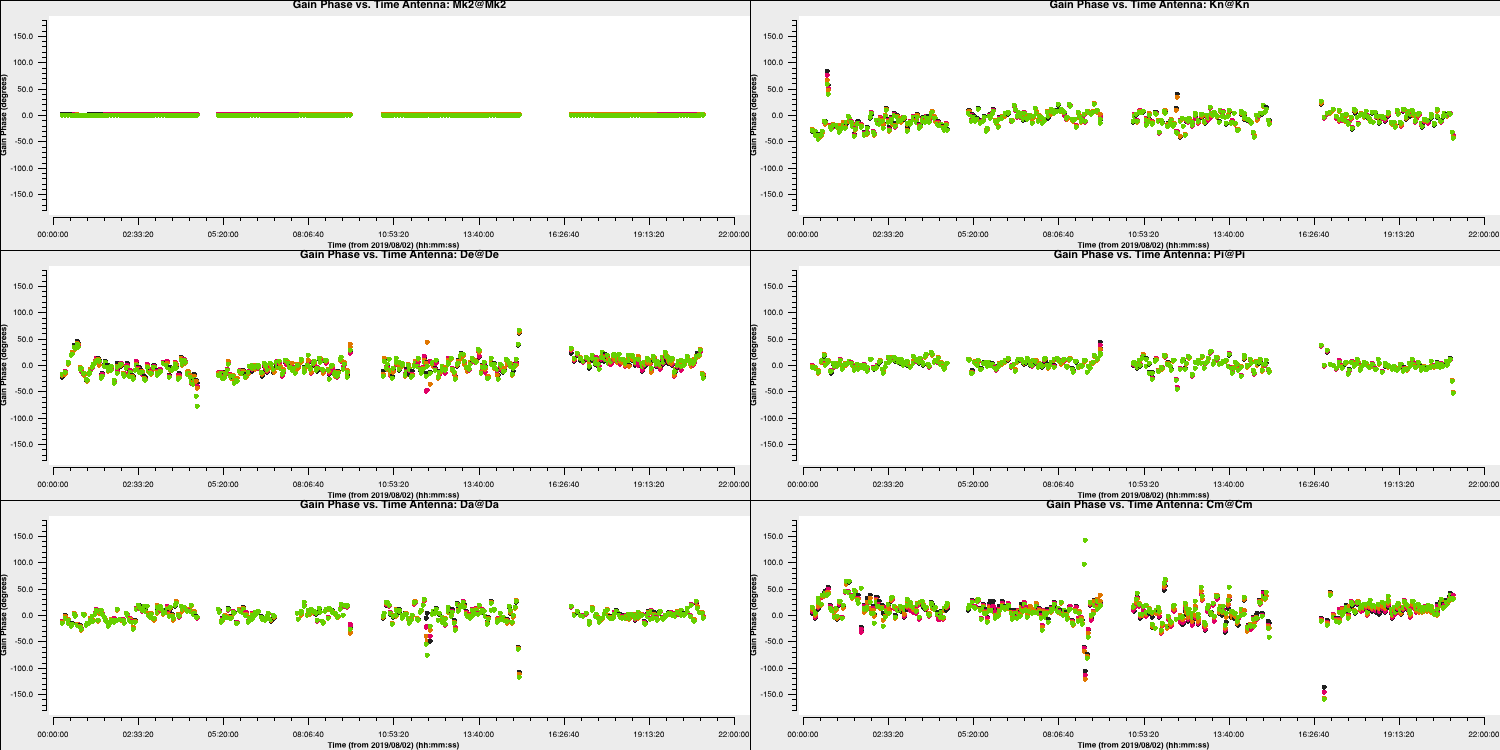
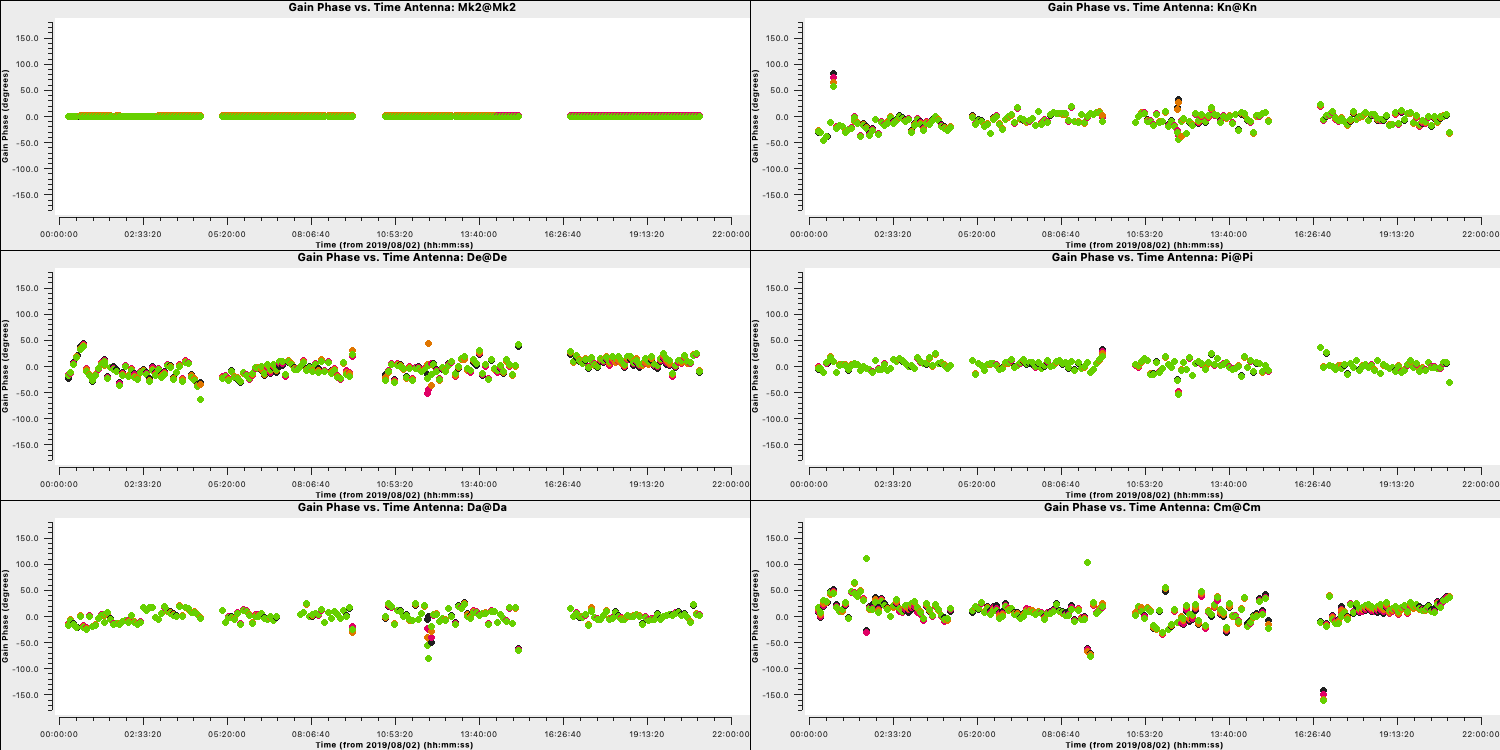
finished imaging and some self-cal

diff --git a/selfcalibration.html b/selfcalibration.html
@@ -93,7 +93,7 @@ onload = function(){
 								</p>
 								<p>
 									<ul>
-										<li>Take a look at step 4. The parameters have already been set so execute the step. You can try over-plotting the data and model columns on the same GUI window interactively or look at the difference between data and model columns.<pre class="line-numbers" data-start="106"><code class="language-python">	plotms(vis=target+'.ms',
+										<li>Take a look at step 4. The parameters have already been set so execute the step. You can try over-plotting the data and model columns on the same GUI window interactively or look at the difference between data and model columns.<pre class="line-numbers" data-start="149"><code class="language-python">	plotms(vis=target+'.ms',
 		   xaxis='uvdist',
 		   yaxis='amp',
 		   ydatacolumn='model',
@@ -114,7 +114,7 @@ onload = function(){
 								</p>
 								<p>
 									<ul>
-										<li>Take a look at step 5. We want to plot phase against time, averaging all channels per spw (see <code class="language-bash">listobs</code> for the number of channels).<pre class="line-numbers" data-start="144"><code class="language-python">	plotms(vis=target+'.ms',
+										<li>Take a look at step 5. We want to plot phase against time, averaging all channels per spw (see <code class="language-bash">listobs</code> for the number of channels).<pre class="line-numbers" data-start="172"><code class="language-python">	plotms(vis=target+'.ms',
 		   xaxis='**',
 		   yaxis='**',
 		   antenna='**',
@@ -144,15 +144,15 @@ onload = function(){
 								<p>
 									<ul>
 										<li>Take a look at step 6 and enter the parameters in <code class="language-bash">gaincal</code> to conduct phase-only calibration using your selected solution interval,
-								<pre class="line-numbers" data-start="163"><code class="language-python">gaincal(vis=target+'.ms',
-			calmode='**',          # phase only
-			caltable='target.p1',
-			field=target,
-			solint='**',           # about half a scan duration
-			refant=antref,
-			minblperant=3, minsnr=5)</code></pre></li>
+								<pre class="line-numbers" data-start="191"><code class="language-python">gaincal(vis=target+'.ms',
+		calmode='**',          # phase only
+		caltable='target.p1',
+		field=target,
+		solint='**',           # about half a scan duration
+		refant=antref,
+		minblperant=3, minsnr=5)</code></pre></li>
 										<li>We also want to plot these solutions which are done for both polarisations separately using the following code,
-										<pre class="line-numbers" data-start="163"><code class="language-python">	plotms(vis='target.p1',
+										<pre class="line-numbers" data-start="200"><code class="language-python">	plotms(vis='target.p1',
 		   gridcols=2, gridrows=3,
 		   xaxis='time', yaxis='phase',
 		   iteraxis='antenna',
@@ -160,6 +160,7 @@ onload = function(){
 		   plotrange=[-1,-1,-180,180],
 		   correlation='L',
 		   plotfile='target.p1_L.png', overwrite=True, showgui=gui)
+	os.system('mv Step_06_target.p1_L_*png Step_06_target.p1_L.png')
 
 	plotms(vis='target.p1',
 		   gridcols=2, gridrows=3,
@@ -168,7 +169,8 @@ onload = function(){
 		   coloraxis='spw',
 		   plotrange=[-1,-1,-180,180],
 		   correlation='R',
-		   plotfile='target.p1_R.png', overwrite=True, showgui=gui)</code></pre></li>
+		   plotfile='target.p1_R.png', overwrite=True, showgui=gui)
+	os.system('mv Step_06_target.p1_R_*png Step_06_target.p1_R.png')</code></pre></li>
 		   								<li>If you are happy, execute step 6</li>
 		   								<li>Check the terminal and logger; there should be no (or almost no) failed solutions.</li>
 									</ul>
@@ -187,28 +189,49 @@ onload = function(){
 								</p>
 								<p>
 									<ul>
-										<li>Take a look at step 7. There's a lot to enter here but most of these you have worked out in previous steps. Firstly, we want to enter the calibration table we just made into <code class="language-bash">applycal</code>,<pre class="line-numbers" data-start="197"><code class="language-python">applycal(vis=target+'.ms',
+										<li>Take a look at step 7. There's a lot to enter here but most of these you have worked out in previous steps. Firstly, we want to enter the calibration table we just made into <code class="language-bash">applycal</code>,<pre class="line-numbers" data-start="227"><code class="language-python">applycal(vis=target+'.ms',
 		 gaintable=['**']) # enter the name of the gaintable</code></pre></li>
 		 								<li>Next, we will want to image these data again to generate our new, better model. The weighting and resolution shouldn't change so we want to use the same parameters as we had done previously. Note that the number of iterations has increased as we expect a higher S/N due to phase self-calibration.
-		 								<pre class="line-numbers" data-start="202"><code class="language-python">	tclean(vis=target+'.ms',
-		   imagename=target+'_p1.clean',
-		   cell='**arcsec',
-		   niter=3000,
-		   cycleniter=300,  
-		   deconvolver='clark',
-           savemodel='modelcolumn',
-		   imsize=['**','**'],
-		   interactive=True)</code></pre></li>
+										<div class="row">
+										<div class="column">
+										<b>Linux</b>
+		 								<pre class="line-numbers" data-start="233"><code class="language-python">		tclean(vis=target+'.ms',
+			   imagename='targetp1',
+			   imsize=['**','**'],
+			   cell='**arcsec',
+			   deconvolver='clark',
+			   specmode='mfs',
+			   niter=3000, 
+			   cycleniter=300,
+			   threshold=0,
+			   savemodel='modelcolumn',
+			   interactive=True)</code></pre></div>
+		   								<div class="column">
+										<b>Mac OS</b>
+										<pre class="line-numbers" data-start="245"><code class="language-python">		run_iclean(vis=target+'.ms',
+				   imagename='targetp1',
+				   imsize=['**','**'],
+				   cell='**arcsec',
+				   deconvolver='clark',
+				   specmode='mfs',
+				   niter=3000,
+				   cycleniter=300,
+				   threshold=0,
+				   savemodel='modelcolumn')
+		ft(vis=target+'.ms',
+		   model='targetp1.model',
+		   usescratch=True)</code></pre></div>
+		   								</li>
 		 								<li>Finally, we want to record the rms and peak brightnesses so we can see if there's an improvement. As out imaging parameters are the same, you should try to use the same boxes,
-		 								<pre class="line-numbers" data-start="212"><code class="language-python">	rmsp1=imstat(imagename=target+'_p1.clean.image',
-				  box='**,**,**,**')['rms'][0]
-	peakp1=imstat(imagename=target+'_p1.clean.image',
+		 								<pre class="line-numbers" data-start="259"><code class="language-python">	rmsp1=imstat(imagename='targetp1.image',
+				 box='**,**,**,**')['rms'][0]
+	peakp1=imstat(imagename='targetp1.image',
 				  box='**,**,**,**')['max'][0]</code></pre></li>
 				  						<li>If you are happy with all of these entries, execute step 7. This may take a minute as the $\texttt{CORRECTED}$ data column needs to be generated.</li>
 				  					</ul>
 				  				</p>
 								<p>
-									With these corrections applied we will CLEAN using <code class="language-bash">tclean</code>, as before, but you will be able to do more iterations as the noise should be lower.
+									With these corrections applied we will CLEAN using <b>(L)</b> <code class="language-bash">tclean</code> / <b>(M)</b> <code class="language-bash">run_iclean</code>, as before, but you will be able to do more iterations as the noise should be lower.
 								</p>
 								<p>
 									Once this is complete we will get the peak and rms values. I managed to get $S_p \sim 168 \,\mathrm{mJy\,beam^{-1}}$ and $\sigma \sim 0.282\,\mathrm{mJy\,beam^{-1}}$. This is a massive $\mathrm{S/N}$ increase to $\sim 595$ from $225$ before phase self-calibration.

diff --git a/imaging.html b/imaging.html
@@ -292,24 +292,25 @@ onload = function(){
 									<ul>
 										<li>Take another look at your image using <b>(L)</b> <code class="language-bash">imview</code> / <b>(M)</b> CARTA. The synthesised beam is displayed, and is about $64\times53\,\mathrm{mas}$ for this image.</li>
 										<li>To track the calibration improvements we want to measure the noise level ($\sigma$) and the peak brightness ($S_\mathrm{p}$) so that we can measure the signal-to-noise ($\mathrm{S/N} = S_\mathrm{p}/\sigma$).  To do this we can use the set a region. We want to have a region where there's no source flux present so we can measure the rms noise (see the statistics tab) and another region over the brightest emission to measure the peak brightness. Try this interactively first and record your values for the peak, rms noise and S/N.</li>
-											<li>To automate this process we can also use the task <code class="language-bash">imstat</code> and select the boxes using the inputs. Take a look at step 3 and input the box values (note that the box format is <code class="language-bash">box = "x_bottom_left_corner, y_blc, x_top_right_corner, y_trc"</code>)<pre class="line-numbers" data-start="99"><code class="language-python">	rms1=imstat(imagename='target0.image',
+			<li>To automate this process we can also use the task <code class="language-bash">imstat</code> and select the boxes using the inputs. Take a look at step 3 and input the box values (note that the box format is <code class="language-bash">box = "x_bottom_left_corner, y_blc, x_top_right_corner, y_trc"</code>)<pre class="line-numbers" data-start="123"><code class="language-python">	rms1=imstat(imagename='target0.image',
 				box='**,**,**,**')['rms'][0]
 	peak1=imstat(imagename='target0.image',
 				box='**,**,**,**')['max'][0]
 
-	print(('target0.image rms %7.3f mJy' % (rms1*1000.)))
-	print(('target0.image peak %7.3f mJy/bm' % (peak1*1000.)))</code></pre>
+	print(('target0.image rms = %7.3f mJy' % (rms1*1000.)))
+	print(('target0.image peak = %7.3f mJy/bm' % (peak1*1000.)))
+	print(('target0.image S/N = %7.3f' % (peak1/rms1)))</code></pre>
 								
 								<p>
 									<b>(L)</b> The other command in step 3 illustrates the use of <code class="language-bash">imview</code> to produce reproducible images. This is optional but is shown for reference. You can use <code class="language-bash">imview</code> interactively to decide what values to give the parameters. Note: If you use it interactively, make sure that the black area is a suitable size to just enclose the image, otherwise <code class="language-bash">imview</code> will produce a strange aspect ratio plot. <b>(M)</b> On Macs, you can save the image in CARTA to save a png. 
 								</p>
-								<pre><code class="language-python">imview(raster={'file': '1252+5634_1.clean.image',
-	       'colormap':'Rainbow 2',
-	       'scaling': -2,
-	       'range': [-1.*rms1, 40.*rms1],
-	       'colorwedge': True},
-	       zoom=2,
-	       out='1252+5634_1.clean.png')</code></pre>
+			<pre class="line-numbers" data-start="134"><code class="language-python">		imview(raster={'file': 'target0.image',
+					   'colormap':'Rainbow 2',
+					   'scaling': -2,
+					   'range': [-1.*rms1, 100.*rms1],
+					   'colorwedge': True},
+			   zoom=1,
+			out='target0.image.png')</code></pre>
 	       						<p>
 	       							<ul>
 	       								<li>Execute step 3 and you should get the rms and peak brightness printed onto the screen. Calculate the S/N and record these values for later. You should also have a saved plot like the one shown below</li>
